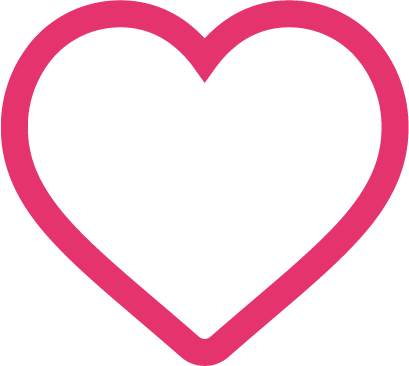
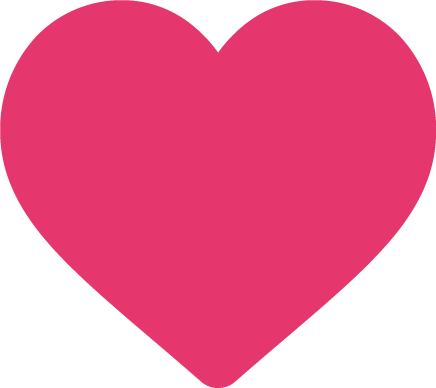
working like feature + image

diff --git a/server.js b/server.js
@@ -1,4 +1,3 @@
-
 const express = require("express");
 const bodyParser = require("body-parser");
 const mongo = require("mongodb");
@@ -6,8 +5,6 @@ const ObjectID = mongo.ObjectID;
 const session = require("express-session");
 const bcrypt = require('bcrypt')
 require("dotenv").config();
-
-
 
 const app = express();
 
@@ -34,6 +31,7 @@ mongo.MongoClient.connect(url, { useUnifiedTopology: true }, function (
 
 app.use("/static", express.static("static"));
 app.use(bodyParser.urlencoded({ extended: true }));
+app.use(bodyParser.json());
 app.use(
   session({
     name: process.env.SESSION_NAME,
@@ -61,7 +59,7 @@ app.post("/results", filter);
 app.post("/login", loginpost);
 app.post("/register", registerpost);
 app.post("/profile", profilepost);
-app.post("/like", likepost)
+app.post("/like", likepost);
 
 function home(req, res) {
   let { userId } = req.session;
@@ -96,13 +94,13 @@ function login(req, res) {
 }
 
 function profile(req, res) {
-  // In this function we use the data from the current userId aka the session 
-  res.render('profile.ejs', { data: req.session.userId })
+  // In this function we use the data from the current user aka the session 
+  res.render('profile.ejs', { data: req.session.user })
 }
 
 async function likes(req, res) {
-  const promises = []; // create an array to store promises
   const user = req.session.user;
+  const promises = []; // create an array to store promises
   user.likedBy.forEach((likerId) => {
     // make a foreach for each like in likedBy array in db
     promises.push(
@@ -135,16 +133,16 @@ async function loginpost(req, res) {
 // In this function we make sure the user can update it's haircolor and this wil be changed in the database
 function profilepost(req, res) {
   db.collection('users').updateOne(
-    // First we find the userId aka the session and then we update the haircolor with the input from the user
-    { firstName: req.session.userId.firstName },
+    // First we find the user aka the session and then we update the haircolor with the input from the user
+    { firstName: req.session.user.firstName },
     { $set: { hair: req.body.hair } })
 
-  db.collection('users').findOne({ firstName: req.session.userId.firstName }, done)
+  db.collection('users').findOne({ firstName: req.session.user.firstName }, done)
   function done(err, data) {
     if (err) {
       next(err)
     } else {
-      req.session.userId = data
+      req.session.user = data
       res.redirect('/results')
     }
   }
@@ -195,17 +193,15 @@ async function registerpost(req, res, next) {
 
 async function likepost(req, res) {
   const id = req.body.id;
-  console.log(id)
   const likedUser = await db
     .collection("users")
-    .findOne({ _id: ObjectID(id) });
-  console.log(likedUser)
-  if (likedUser.likedBy.includes(req.session.user)) {
+    .findOne({ _id: ObjectID(id) }); 
+  if (likedUser.likedBy.includes(req.session.user._id)) {
     await db
       .collection("users")
       .updateOne(
         { _id: ObjectID(id) },
-        { $pull: { likedBy: req.session.user } }
+        { $pull: { likedBy: req.session.user._id } }
       );
     res.sendStatus(201);
   } else {
@@ -213,7 +209,7 @@ async function likepost(req, res) {
       .collection("users")
       .updateOne(
         { _id: ObjectID(id) },
-        { $push: { likedBy: req.session.user } }
+        { $push: { likedBy: req.session.user._id } }
       );
     res.sendStatus(200);
   }

diff --git a/static/js/script.js b/static/js/script.js
@@ -3,14 +3,13 @@ const likeHeart = document.querySelectorAll('.likedbybutton')
 likeHeart.forEach((heart) => {
     heart.addEventListener('click', (e) => {
         const id = e.target.dataset.id
-        console.log(id)
-        return axios.post('/like' , {id: id})
-        .then((res) => {
-            if (res.status == 200){
-                heart.src="../static/images/likedBy.png"
-            } else {
-                heart.src="../static/images/notLikedBy.png"
-            }
-        })
+        return axios.post("/like", { id: id })
+            .then((res) => {
+                if (res.status == 200) {
+                    heart.src = "../static/images/likedBy.png"
+                } else {
+                    heart.src = "../static/images/notLikedBy.png"
+                }
+            })
     })
 })
